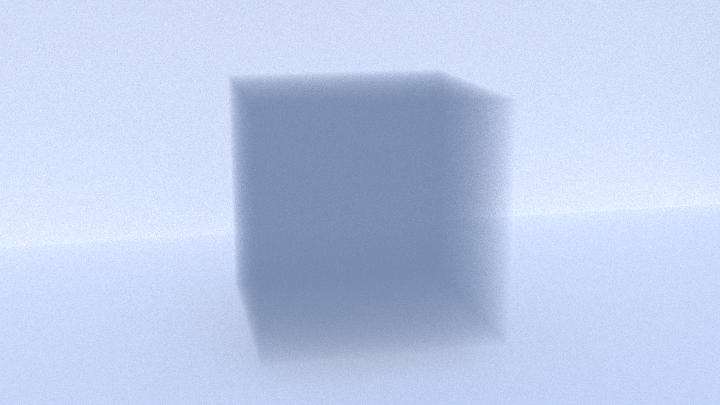
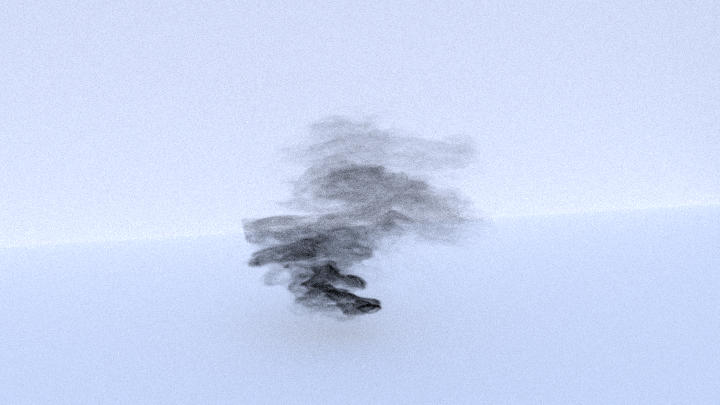
Volumetric textures PT1

Changed region(s): [[0.3056, 0.1778, 0.7028, 0.9185]]

diff --git a/libs/yocto/yocto_sceneio.cpp b/libs/yocto/yocto_sceneio.cpp
@@ -1341,6 +1341,8 @@ static bool load_json_scene(const std::string& filename, scn::model* scene,
         return false;  // hack fir subd
       if (!get_value(ejs, "smooth", material->smooth))
         return false;  // hack for subd
+      if (!get_stexture(ejs, "volumetric_tex", material->volumetric_tex))
+        return false;  // vpt
       material_map[material->name] = material;
     }
   }
@@ -1545,10 +1547,9 @@ static bool save_json_scene(const std::string& filename,
     add_tex(ejs, "opacity_tex", material->opacity_tex);
     add_tex(ejs, "normal_tex", material->normal_tex);
     add_tex(ejs, "displacement_tex", material->displacement_tex);
-    add_opt(ejs, "subdivisions", material->subdivisions,
-        def_material.subdivisions);  // hack for subd
-    add_opt(
-        ejs, "smooth", material->smooth, def_material.smooth);  // hack for subd
+    add_opt(ejs, "subdivisions", material->subdivisions, def_material.subdivisions);  // hack for subd
+    add_opt(ejs, "smooth", material->smooth, def_material.smooth);  // hack for subd
+    add_tex(ejs, "volumetric_tex", material->volumetric_tex); // vpt
   }
 
   auto def_object = object{};
@@ -1735,6 +1736,7 @@ static bool load_obj_scene(const std::string& filename, scn::model* scene,
     material->opacity_tex      = get_stexture(omat->pbr_opacity_tex);
     material->normal_tex       = get_ctexture(omat->normal_tex);
     material->scattering_tex   = get_ctexture(omat->pbr_volscattering_tex);
+    material->volumetric_tex   = get_ctexture(omat->pbr_volumetric_tex); // vpt
     material_map[omat]         = material;
   }
 
@@ -1886,6 +1888,7 @@ static bool save_obj_scene(const std::string& filename, const scn::model* scene,
     omaterial->pbr_coat_tex         = get_texture(material->coat_tex);
     omaterial->pbr_opacity_tex      = get_texture(material->opacity_tex);
     omaterial->pbr_normal_tex       = get_texture(material->normal_tex);
+    omaterial->pbr_volumetric_tex   = get_texture(material->volumetric_tex); // vpt
     material_map[material]          = omaterial;
   }
 

diff --git a/libs/yocto_pathtrace/yocto_pathtrace.cpp b/libs/yocto_pathtrace/yocto_pathtrace.cpp
@@ -35,7 +35,6 @@
 #include <future>
 #include <memory>
 #include <mutex>
-#include <algorithm> // vpt (for max_element)
 using namespace std::string_literals;
 
 // -----------------------------------------------------------------------------
@@ -438,6 +437,11 @@ static bool has_vptvolume(const ptr::object* object) {
   return object->volume != nullptr;
 }
 
+// check if we have a vpt texture // vpt
+static bool has_vpttexture(const ptr::object* object) {
+  return object->material->volumetric_tex != nullptr;
+}
+
 // check if we have a vpt volume // vpt
 static bool check_bounds(vec3i vox_idx, vec3i bounds) {
   return vox_idx.x < bounds.x && vox_idx.y < bounds.y && vox_idx.z < bounds.z;
@@ -480,11 +484,9 @@ static vsdf eval_vsdf(const ptr::object* object, int element, const vec2f& uv, c
     vsdf.htvolume = true;
     auto vol = object->volume;
 
-    //vsdf.max_density = *std::max_element(vol->begin(), vol->end());
-    vsdf.max_density = 0.4854 * 100;
+    vsdf.max_density = vol->max_voxel * 100;
     vsdf.oframe = object->frame;
     vsdf.ovol = vol;
-    
 
 
     // Transformed intersection point
@@ -2134,6 +2136,9 @@ void set_scattering(ptr::material* material, const vec3f& scattering,
 }
 void set_normalmap(ptr::material* material, ptr::texture* normal_tex) {
   material->normal_tex = normal_tex;
+}
+void set_volumetric(ptr::material* material, ptr::texture* volumetric_tex) { // vpt
+  material->volumetric_tex = volumetric_tex;
 }
 
 // Add environment

diff --git a/libs/yocto_pathtrace/yocto_pathtrace.h b/libs/yocto_pathtrace/yocto_pathtrace.h
@@ -132,6 +132,7 @@ void set_thin(ptr::material* material, bool thin);
 void set_scattering(ptr::material* material, const vec3f& scattering,
     float scanisotropy, ptr::texture* scattering_tex = nullptr);
 void set_normalmap(ptr::material* material, ptr::texture* normal_tex);
+void set_volumetric(ptr::material* material, ptr::texture* volumetric_tex); // vpt
 
 // shape properties
 void set_points(ptr::shape* shape, const std::vector<int>& points);
@@ -303,6 +304,7 @@ struct material {
   ptr::texture* scattering_tex   = nullptr;
   ptr::texture* opacity_tex      = nullptr;
   ptr::texture* normal_tex       = nullptr;
+  ptr::texture* volumetric_tex   = nullptr; // vpt
 };
 
 // Shape data represented as an indexed meshes of elements.

diff --git a/libs/yocto/yocto_image.cpp b/libs/yocto/yocto_image.cpp
@@ -36,6 +36,7 @@
 #include <future>
 #include <memory>
 #include <thread>
+#include <algorithm>
 
 #include "ext/stb_image.h"
 #include "ext/stb_image_resize.h"
@@ -2229,6 +2230,7 @@ bool load_volume(
   auto voxels = load_yvol(filename.c_str(), &width, &height, &depth, &ncomp, 1);
   if (!voxels) return read_error();
   vol = volume{{width, height, depth}, (const float*)voxels};
+  vol.max_voxel = *std::max_element(vol.voxels.begin(), vol.voxels.end());
   delete[] voxels;
   return true;
 }

diff --git a/libs/yocto/yocto_obj.h b/libs/yocto/yocto_obj.h
@@ -128,6 +128,7 @@ struct material {
   texture bump_tex         = {};
   texture normal_tex       = {};
   texture displacement_tex = {};
+  texture volumetric_tex   = {}; // vpt
 
   // pbrt extension values
   bool  as_pbr            = false;
@@ -164,6 +165,7 @@ struct material {
   texture pbr_bump_tex          = {};
   texture pbr_normal_tex        = {};
   texture pbr_displacement_tex  = {};
+  texture pbr_volumetric_tex    = {}; // vpt
 };
 
 // Obj shape

diff --git a/apps/ysceneitraces/ysceneitraces.cpp b/apps/ysceneitraces/ysceneitraces.cpp
@@ -154,6 +154,7 @@ void init_scene(ptr::scene* scene, sio::model* ioscene, ptr::camera*& camera,
     set_scattering(material, iomaterial->scattering, iomaterial->scanisotropy,
         texture_map.at(iomaterial->scattering_tex));
     set_normalmap(material, texture_map.at(iomaterial->normal_tex));
+    set_volumetric(material, texture_map.at(iomaterial->volumetric_tex)); // vpt
     material_map[iomaterial] = material;
   }
 

diff --git a/apps/yscenetrace/yscenetrace.cpp b/apps/yscenetrace/yscenetrace.cpp
@@ -108,6 +108,7 @@ void init_scene(ptr::scene* scene, sio::model* ioscene, ptr::camera*& camera,
     set_scattering(material, iomaterial->scattering, iomaterial->scanisotropy,
         texture_map.at(iomaterial->scattering_tex));
     set_normalmap(material, texture_map.at(iomaterial->normal_tex));
+    set_volumetric(material, texture_map.at(iomaterial->volumetric_tex)); // vpt
     material_map[iomaterial] = material;
   }
 

diff --git a/libs/yocto/yocto_sceneio.h b/libs/yocto/yocto_sceneio.h
@@ -161,6 +161,7 @@ struct material {
   scn::texture* opacity_tex      = nullptr;
   scn::texture* normal_tex       = nullptr;
   scn::texture* displacement_tex = nullptr;
+  scn::texture* volumetric_tex   = nullptr; // vpt
 
   // [experimental] properties to drive subdiv and displacement
   int  subdivisions = 2;

diff --git a/libs/yocto/yocto_image.h b/libs/yocto/yocto_image.h
@@ -456,6 +456,7 @@ struct volume {
   std::string        name   = "";
   vec3i              extent = {0, 0, 0};
   std::vector<float> voxels = {};
+  float max_voxel           = 0;
 };
 
 // equality
